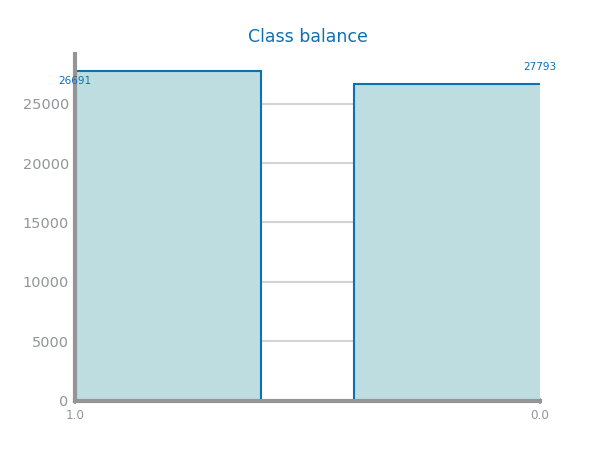
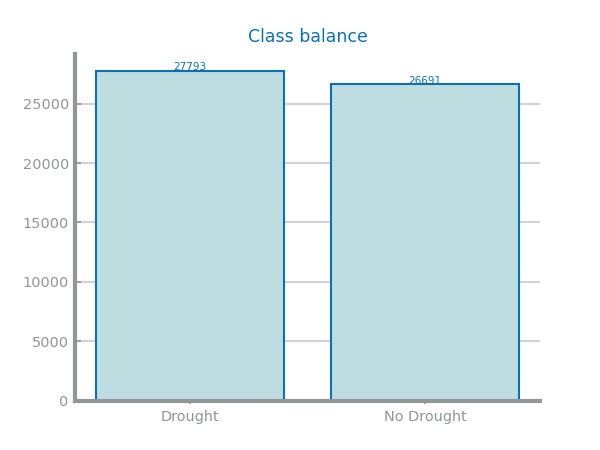
tb podes dar push

diff --git a/droughtDataset/lab3/balancing.py b/droughtDataset/lab3/balancing.py
@@ -2,21 +2,43 @@ from pandas import read_csv
 from matplotlib.pyplot import figure, savefig, show
 from ds_charts import bar_chart
 
+# READING
 
 filename = '../Data/drought_scaled.csv'
 file = "drought_scaled"
 original = read_csv(filename, sep=',', decimal='.')
+
+# HISTOGRAM
+
+from matplotlib.pyplot import savefig, show, subplots
+from ds_charts import get_variable_types, choose_grid, HEIGHT
+
+rows, cols = choose_grid(1)
+fig, axs = subplots(rows, cols, figsize=(cols*HEIGHT, rows*HEIGHT), squeeze=False)
+i, j = 0, 0
+for n in range(1):
+    axs[i, j].set_title('Histogram')
+    axs[i, j].set_xlabel("Class")
+    axs[i, j].set_ylabel("nr records")
+    axs[i, j].hist(original["class"].dropna().values, 'auto')
+    i, j = (i + 1, 0) if (n+1) % cols == 0 else (i, j + 1)
+savefig('images/Balancing/{file}_histogram.png')
+show()
+
+# DATA BALANCE
+
 class_var = 'class'
 target_count = original[class_var].value_counts()
-positive_class = target_count.idxmin()
-negative_class = target_count.idxmax()
+positive_class = target_count.idxmax()
+negative_class = target_count.idxmin()
 #ind_positive_class = target_count.index.get_loc(positive_class)
-print('Minority class=', positive_class, ':', target_count[positive_class])
-print('Majority class=', negative_class, ':', target_count[negative_class])
+print('Drought=', positive_class, ':', target_count[positive_class])
+print('No Drought=', negative_class, ':', target_count[negative_class])
 print('Proportion:', round(target_count[positive_class] / target_count[negative_class], 2), ': 1')
 values = {'Original': [target_count[positive_class], target_count[negative_class]]}
 
 figure()
-bar_chart(target_count.index, target_count.values, title='Class balance')
+bar_chart(["Drought", "No Drought"], target_count.values, title='Class balance')
 savefig(f'images/Balancing_{file}_balance.png')
 show()
+
